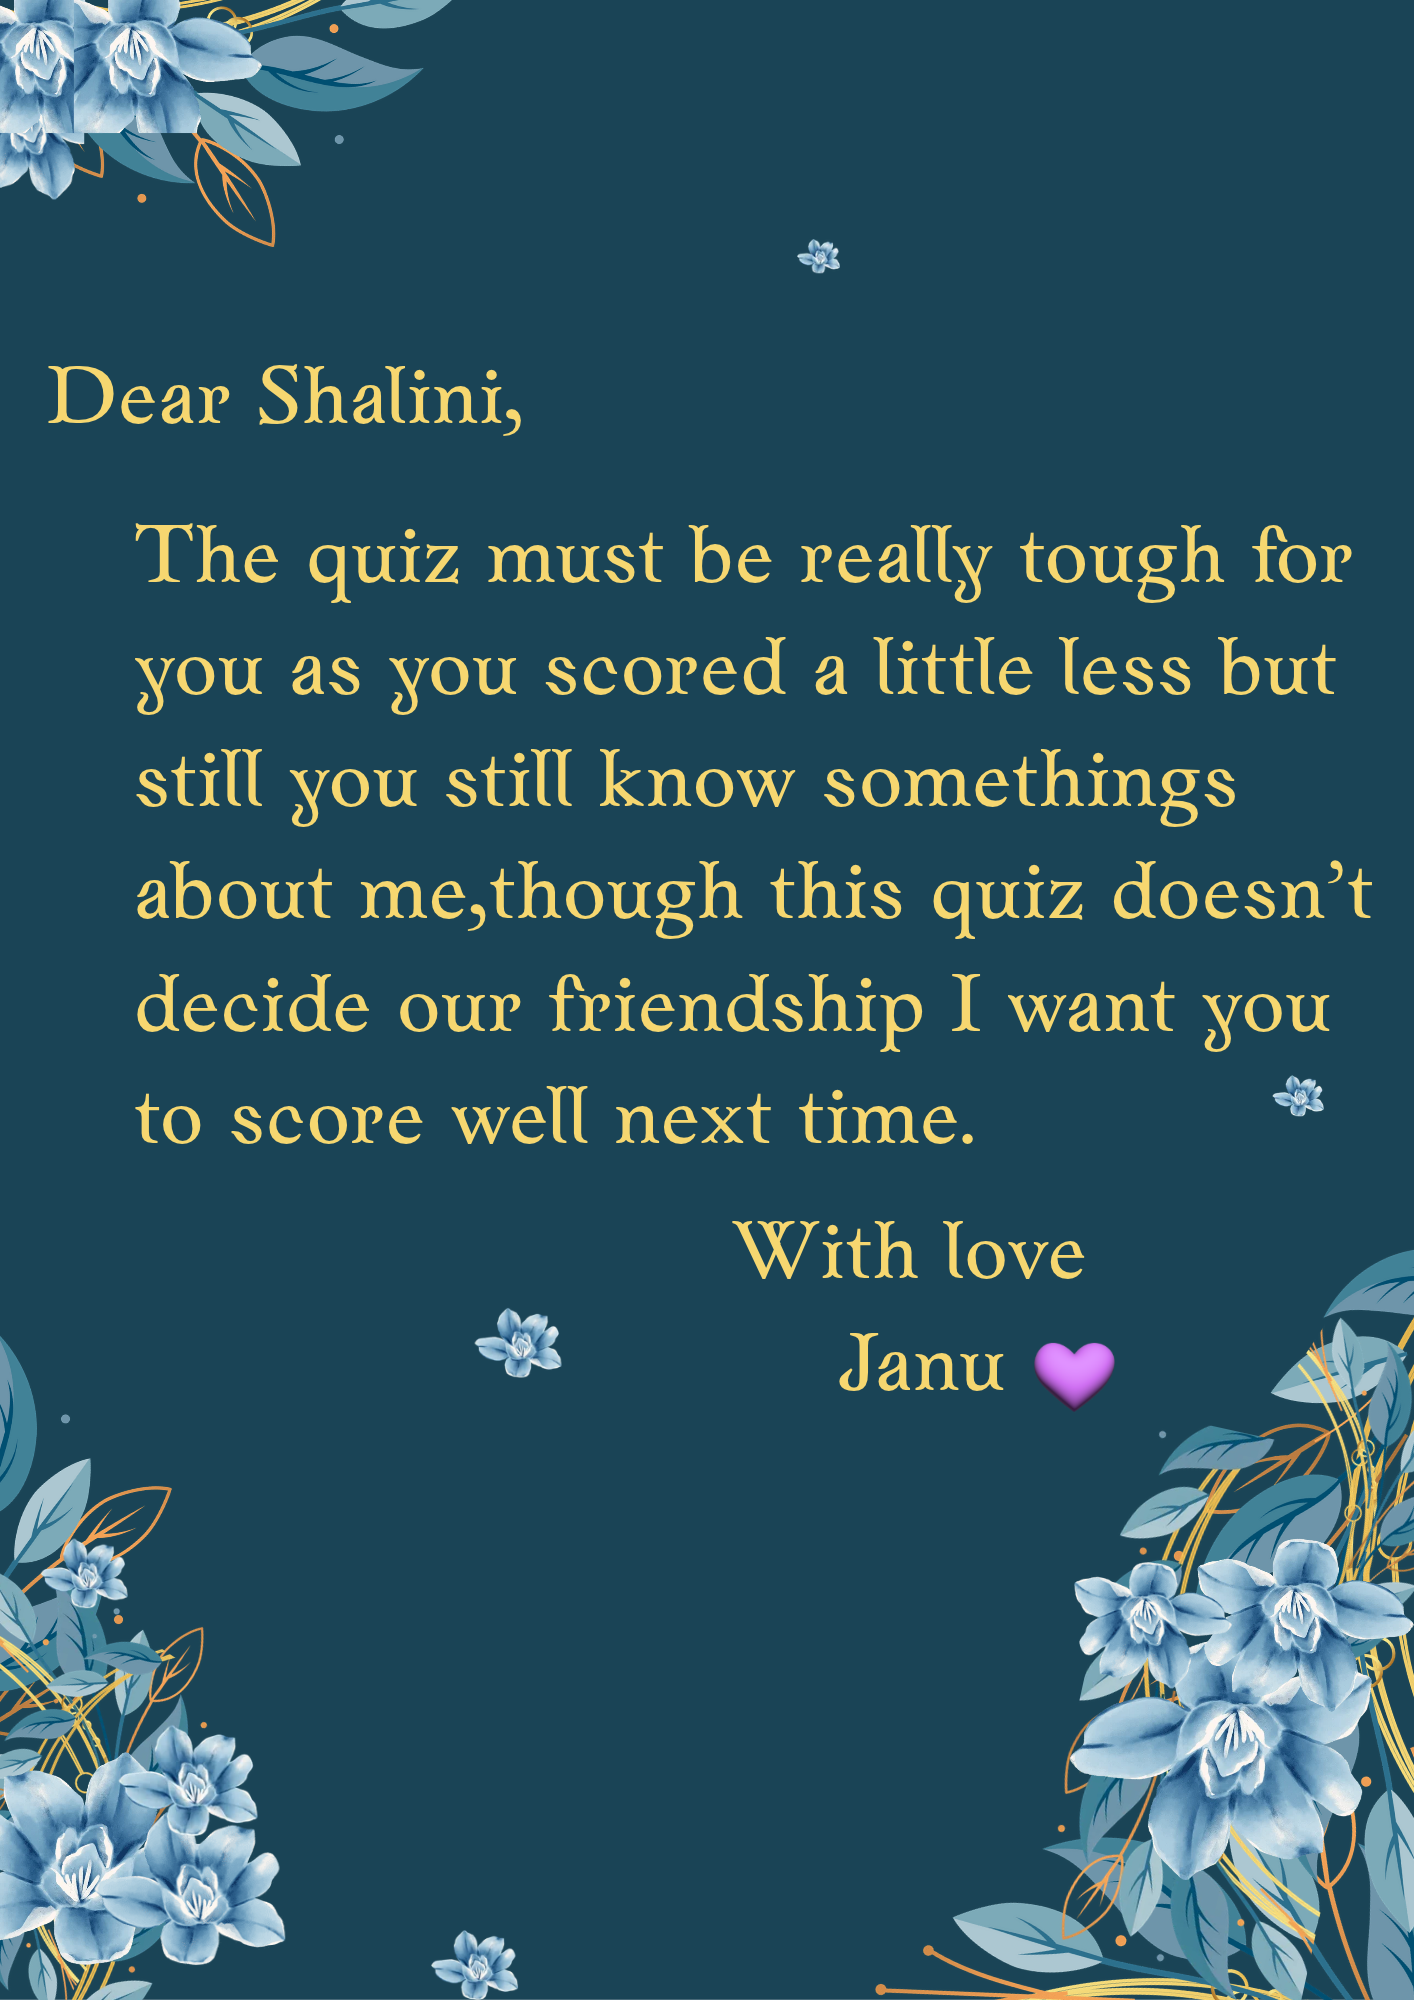
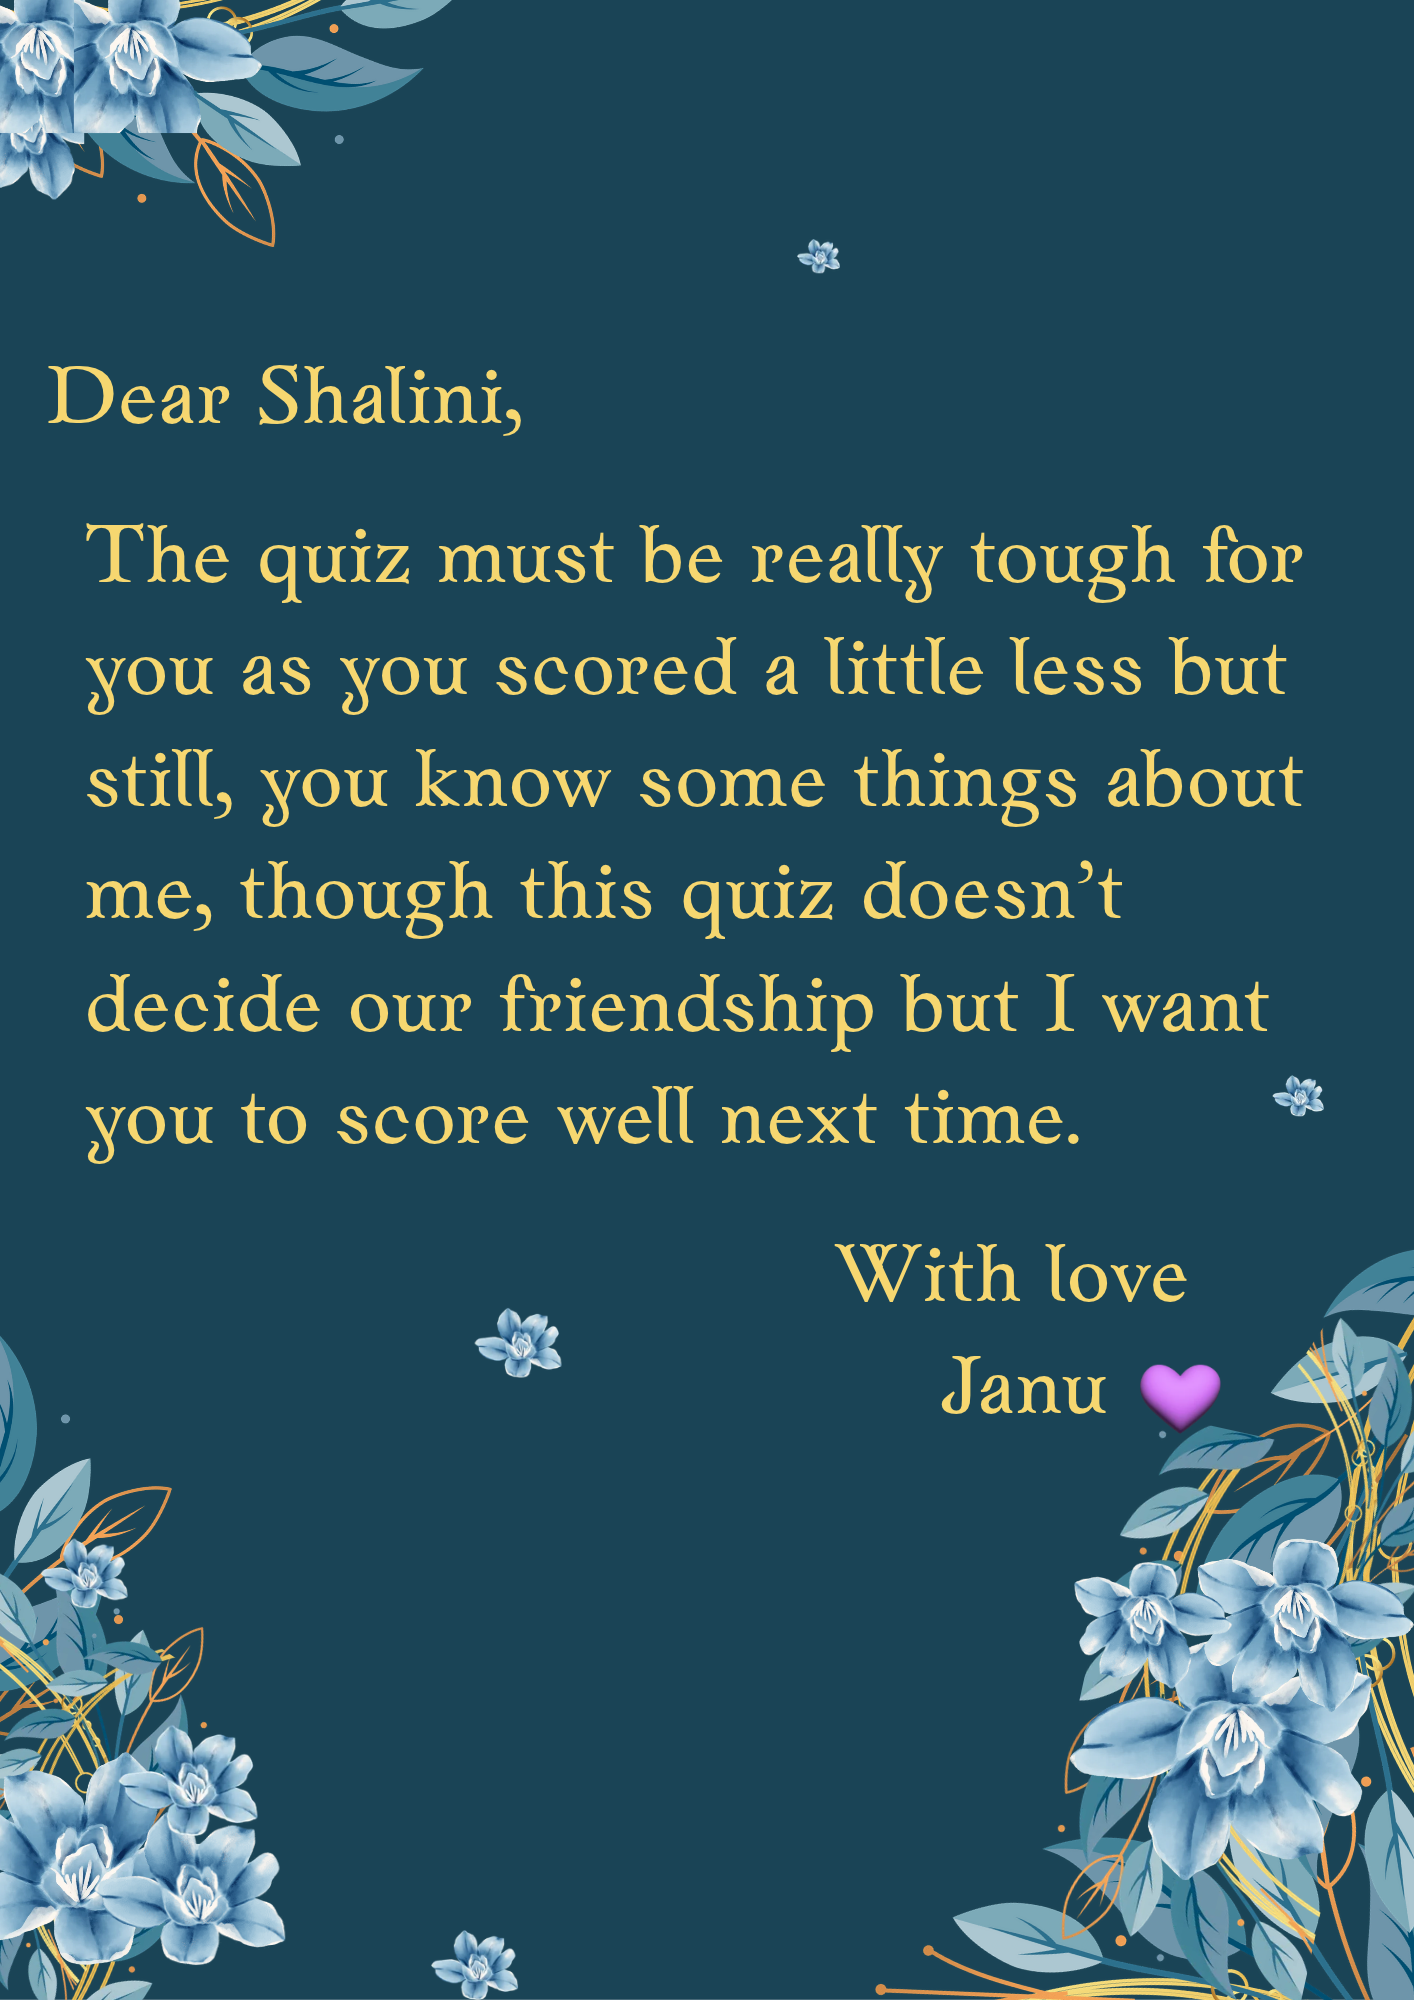
d

Changed region(s): [[0.0622, 0.248, 0.9646, 0.713], [0.9646, 0.713, 1.0, 0.806]]

diff --git a/script.js b/script.js
@@ -8,6 +8,12 @@ document.addEventListener("DOMContentLoaded", () => {
     const letterSets = {
 
         "person-1": [
+              {
+                image: "../letters/person-1/letter-3.png",
+                question: "What is my favourite season?",
+                answer: "Winter"
+            },
+
             {
                 image: "../letters/person-1/letter-2.png",
                 question: "What is my favourite Hindi song in the recent times",
@@ -15,6 +21,8 @@ document.addEventListener("DOMContentLoaded", () => {
             },
 
             {
+
+                
                 image: "../letters/person-1/letter-1.png",
                 question: "What was I named first",
                 answer: "Jahnavi"
@@ -22,10 +30,23 @@ document.addEventListener("DOMContentLoaded", () => {
         ],
 
         "person-2": [
+             {
+                image: "../letters/person-2/letter-4.png",
+                 question: "Enter your code",
+                answer: "Flora10"
+               
+            },
+
+             {
+                image: "../letters/person-2/letter-3.png",
+                question: "What is my Favourite food?",
+                answer: "Crab curry"
+            },
+
             {
                 image: "../letters/person-2/letter-2.png",
-                question: "Whhat is the name of my school",
-                answer: "PEN school"
+                question: "What is the name of my school (write in block letters)",
+                answer: "PEN SCHOOL"
             },
 
             {
